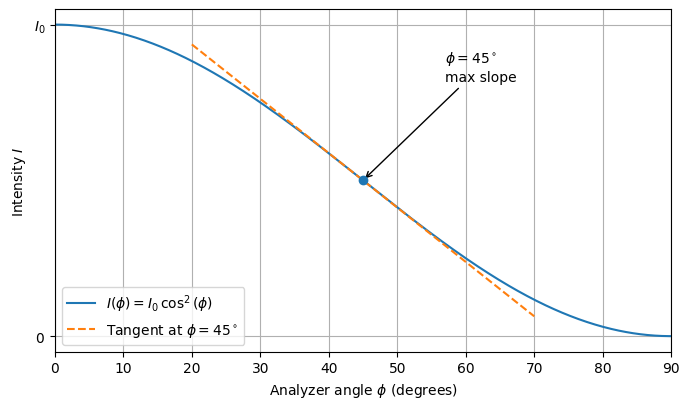
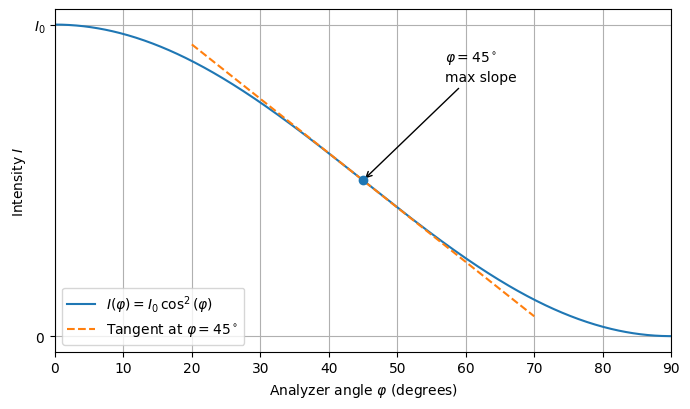
more fixes

diff --git a/Preparation/Preparation_FAR.tex b/Preparation/Preparation_FAR.tex
@@ -300,17 +300,17 @@ After passing through the sample, the light is linearly polarized but rotated by
 The analyzer is a second polarizer placed behind the sample, whose purpose is to convert changes in polarization direction into changes in transmitted intensity.
 The transmitted intensity behind the analyzer is described by Malus' law,
 \begin{equation}
-I = I_0 \cos^2 \phi,
+I = I_0 \cos^2 \varphi,
 \end{equation}
-where $\phi$ is the angle between the polarization direction of the light and the transmission axis of the analyzer.
+where $\varphi$ is the angle between the polarization direction of the light and the transmission axis of the analyzer.
 
-If the polarization is rotated by a small Faraday angle $\theta$, the effective angle becomes $\phi + \theta$, and the transmitted intensity is
+If the polarization is rotated by a small Faraday angle $\theta$, the effective angle becomes $\varphi + \theta$, and the transmitted intensity is
 \begin{equation}
-I(\theta) = I_0 \cos^2(\phi + \theta).
+I(\theta) = I_0 \cos^2(\varphi + \theta).
 \end{equation}
-The analyzer angle $\phi$ is chosen deliberately to maximize the sensitivity of the transmitted intensity to small changes in $\theta$.
+The analyzer angle $\varphi$ is chosen deliberately to maximize the sensitivity of the transmitted intensity to small changes in $\theta$.
 
-The analyzer is set to $\phi = 45^\circ$, because at this angle the slope of the $\cos^2$ function is maximal and approximately linear in the vicinity of the working point.
+The analyzer is set to $\varphi = 45^\circ$, because at this angle the slope of the $\cos^2$ function is maximal and approximately linear in the vicinity of the working point.
 This means that small polarization rotations lead to the largest possible relative change in intensity.
 This behavior is illustrated schematically in Fig.~\ref{fig:malus_slope}.
 
@@ -318,13 +318,13 @@ This behavior is illustrated schematically in Fig.~\ref{fig:malus_slope}.
 \begin{figure}[H]
 \centering
 \includegraphics[width=0.95\linewidth]{../resources/figures/malus_slope.png}
-\caption{Schematic illustration of Malus' law $I \propto \cos^2 \phi$.
-At $\phi = 45^\circ$ the slope of the curve is maximal and approximately linear, which makes this angle an optimal working point for detecting small polarization rotations.}
+\caption{Schematic illustration of Malus' law $I \propto \cos^2 \varphi$.
+At $\varphi = 45^\circ$ the slope of the curve is maximal and approximately linear, which makes this angle an optimal working point for detecting small polarization rotations.}
 \label{fig:malus_slope}
 \end{figure}
 
-For small Faraday rotation angles $\theta \ll 1$, the intensity can be expanded around the working point $\phi = 45^\circ$.
-Using a first-order Taylor expansion of $\cos^2(\phi + \theta)$, one obtains
+For small Faraday rotation angles $\theta \ll 1$, the intensity can be expanded around the working point $\varphi = 45^\circ$.
+Using a first-order Taylor expansion of $\cos^2(\varphi + \theta)$, one obtains
 \begin{equation}
 I(\theta) \approx \frac{I_0}{2} - I_0 \theta.
 \end{equation}
@@ -372,7 +372,7 @@ In real optical systems, the transmitted intensity does not vanish completely ev
 This can be caused by imperfect polarizers, slight misalignments, or stress-induced changes of the polarization state inside the glass.
 To account for this, a modified form of Malus' law is used,
 \begin{equation}
-I(\phi) = (I_{\parallel} - I_{\perp}) \cos^2 \phi + I_{\perp},
+I(\varphi) = (I_{\parallel} - I_{\perp}) \cos^2 \varphi + I_{\perp},
 \label{eq:malus_modified}
 \end{equation}
 where $I_{\parallel}$ and $I_{\perp}$ are the intensities measured for parallel and crossed polarizers, respectively.
@@ -602,7 +602,7 @@ When handling the glass block, the cotton gloves provided at the experimental st
 With the glass block removed and the magnetic field switched off, Malus’ law is verified for a fixed wavelength.
 
 The first polarizer is kept at a fixed orientation, while the analyzer is rotated over an angular range from $0^\circ$ to $180^\circ$.
-For each analyzer angle $\phi$, the transmitted intensity $I(\phi)$ is measured and the resulting curve is recorded.
+For each analyzer angle $\varphi$, the transmitted intensity $I(\varphi)$ is measured and the resulting curve is recorded.
 
 From the measured intensity curve, the maximum intensity $I_{\parallel}$ and the minimum intensity $I_{\perp}$ are determined.
 Using these values, the contrast
